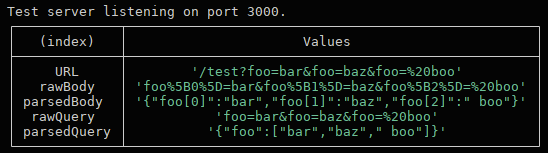
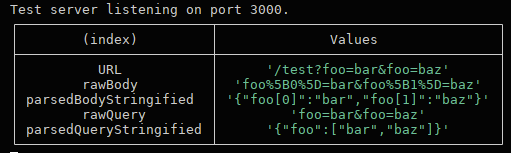
Fix sent object and output images

diff --git a/app.js b/app.js
@@ -16,9 +16,9 @@ app.post('/test', (req, res) => {
     console.table({
         URL: req.originalUrl,
         rawBody: req.raw,
-        parsedBody: JSON.stringify(req.body),
+        parsedBodyStringified: JSON.stringify(req.body),
         rawQuery: queryString,
-        parsedQuery: JSON.stringify(req.query),
+        parsedQueryStringified: JSON.stringify(req.query),
     });
     res.end();
 });
@@ -32,5 +32,5 @@ app.listen(PORT, () => console.log(`Test server listening on port ${PORT}.`));
  * The documentation indicates the expected behaviour for both to be
  * as per the current query string behaviour.
  */
-const obj = { foo: ['bar', 'baz',' boo'] };
+const obj = { foo: ['bar', 'baz'] };
 superagent.post('http://localhost:3000/test').type('form').send(obj).query(obj).end();
